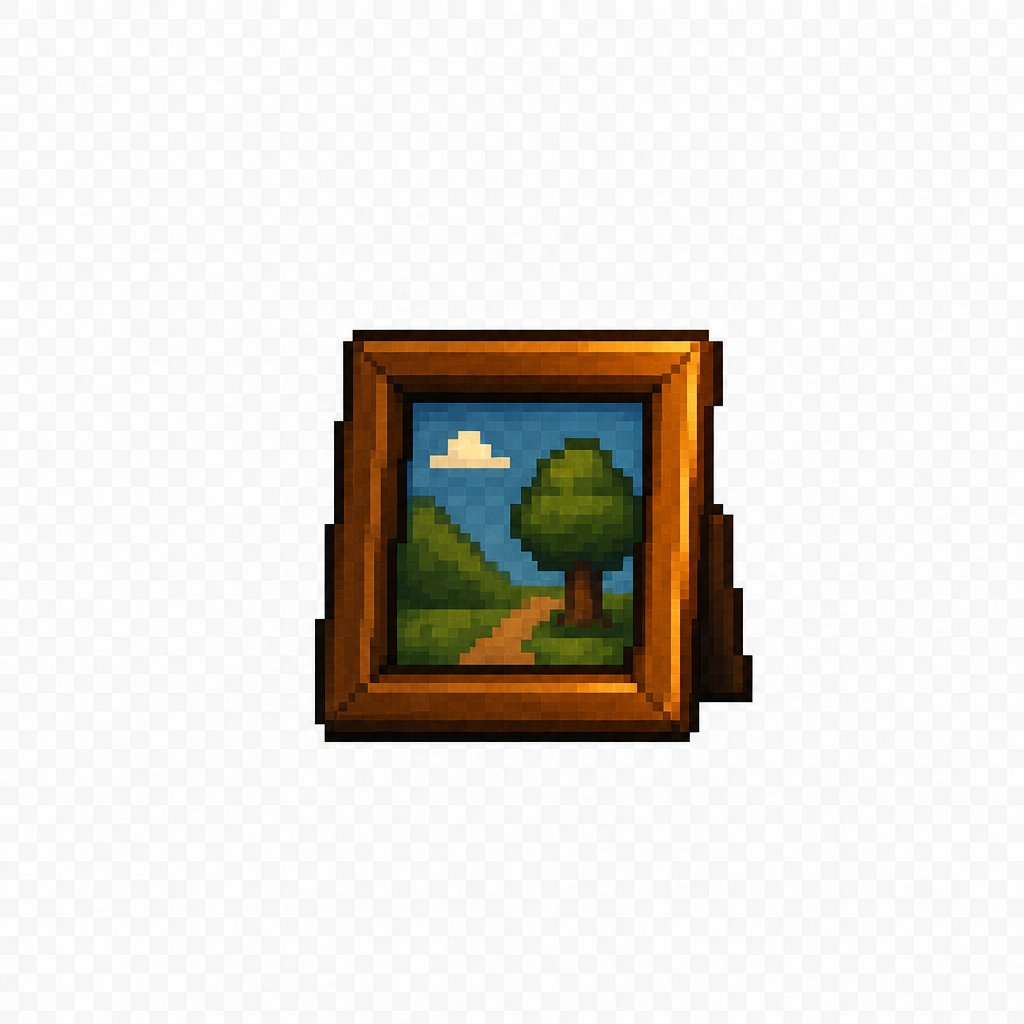
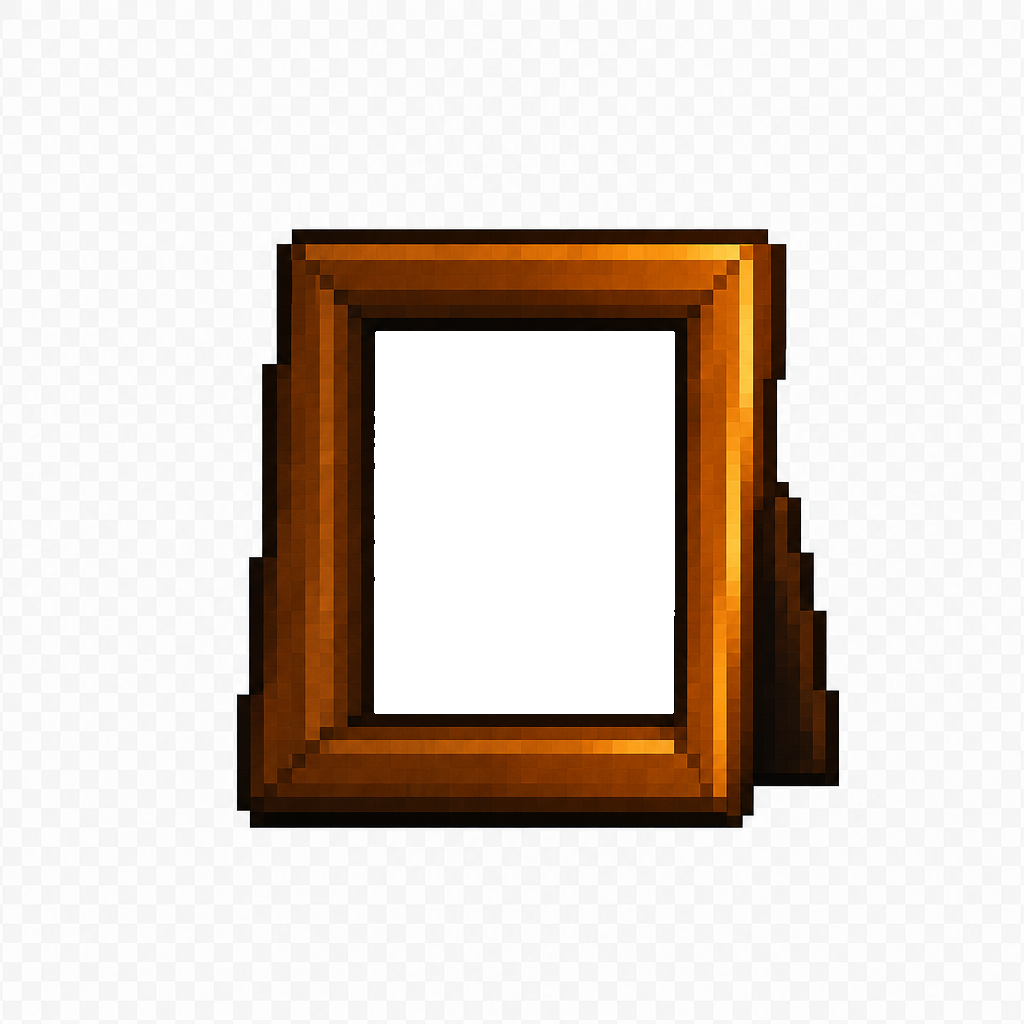
assets(desk): photo_frame alpha slot, cork_empty, lamp_glow
Punch frame interior for user photo compositing. Add empty polaroid
backing for cork holes and amber glow overlay for the lamp.

diff --git a/docs/your-diary/27-desk-scene-layered-sprites.md b/docs/your-diary/27-desk-scene-layered-sprites.md
@@ -127,7 +127,9 @@ Z-order (아래→위):
 | `sky_cloudy` | `sky_cloudy.png` | 흐림 | |
 | `sky_rain` | `sky_rain.png` | 비 | |
 | `corkboard` | `corkboard.png` | **오돌토돌 코르크**+두꺼운 보드감 · **사진 슬롯 알파 관통(3)** · 유리와 대비 | 1 |
-| `cork_empty` | `cork_empty_slot.png` | 빈 폴라로이드 플레이스홀더 | 1 |
+| `cork_empty` | `cork_empty.png` | 빈 폴라로이드(불투명 크림) · corkboard 구멍 **뒤**에 깔기 | 1 |
+| `photo_frame` | `photo_frame.png` | 나무 액자 · **가운데 알파 구멍** · 대표 사진 뒤 합성 | 1 |
+| `lamp_glow` | `lamp_glow.png` | 앰버 광 디더 글로우 (lamp 아래/위 오버레이) | 1 |
 | `tomato` | `tomato_timer.png` | 토마토 뽀모도로 **대기(idle) 1장만** | 1 |
 | `memo` | `memo_note.png` | 짧은 줄만 있는 **메모지 단독** (연필 없음 · 탭=10자 입구) | 1 |
 | `frame` | `photo_frame.png` | 작은 액자 (안의 그림은 최소·교체 가능 슬롯이면 더 좋음) | 1 |
